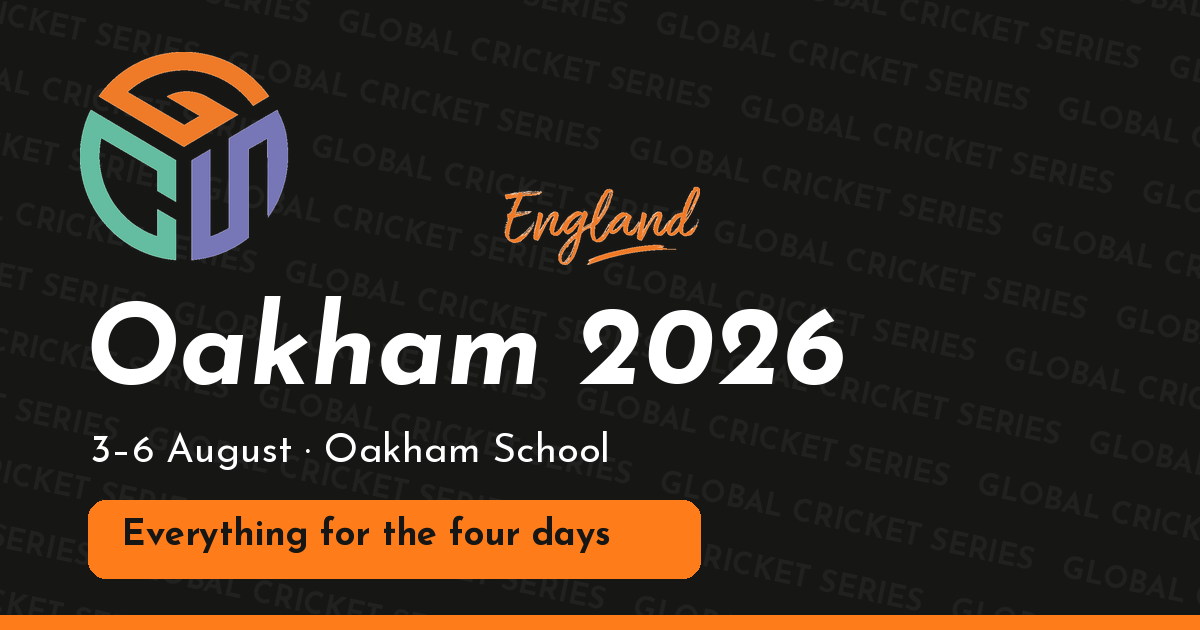
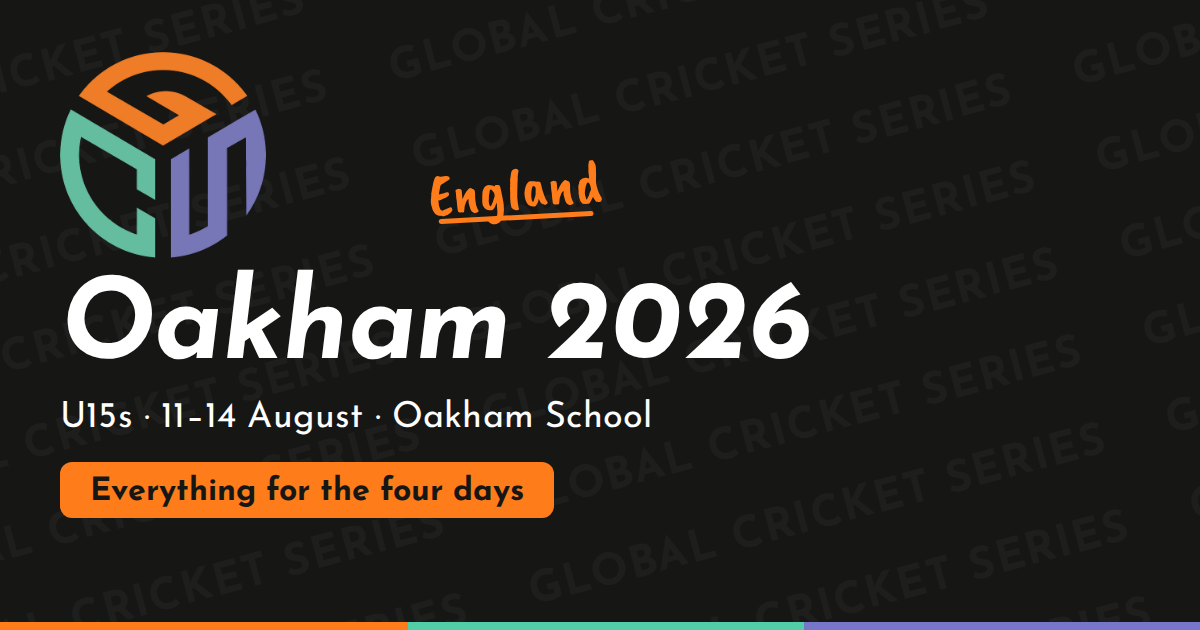
Add files via upload

Changed region(s): [[0.0308, 0.0603, 0.7092, 0.9349], [0.0, 0.9651, 1.0, 1.0], [0.3392, 0.2714, 0.5858, 0.4222]]

diff --git a/start.html b/start.html
@@ -8,12 +8,12 @@
 
 <!-- WhatsApp / iMessage / Facebook preview card -->
 <meta property="og:type" content="website">
-<meta property="og:title" content="GCS Oakham 2026 — get the app">
-<meta property="og:description" content="Fixtures, pitch maps, live alerts and the GCS Oakham Challenge. Everything for the four days, on your phone.">
-<meta property="og:image" content="https://oakham.globalcricketseries.com/oakham_share_card.png">
+<meta property="og:title" content="GCS Oakham U15s 2026 — get the app">
+<meta property="og:description" content="Fixtures, pitch maps, live alerts and the GCS Oakham Challenge. 11–14 August, everything for the four days, on your phone.">
+<meta property="og:image" content="https://oakhamu15.globalcricketseries.com/oakham_share_card.png">
 <meta property="og:image:width" content="1200">
 <meta property="og:image:height" content="630">
-<meta property="og:url" content="https://oakham.globalcricketseries.com/start.html">
+<meta property="og:url" content="https://oakhamu15.globalcricketseries.com/start.html">
 <meta name="twitter:card" content="summary_large_image">
 <meta name="theme-color" content="#161615">
 <link rel="icon" href="gcs_mark_512.png">
